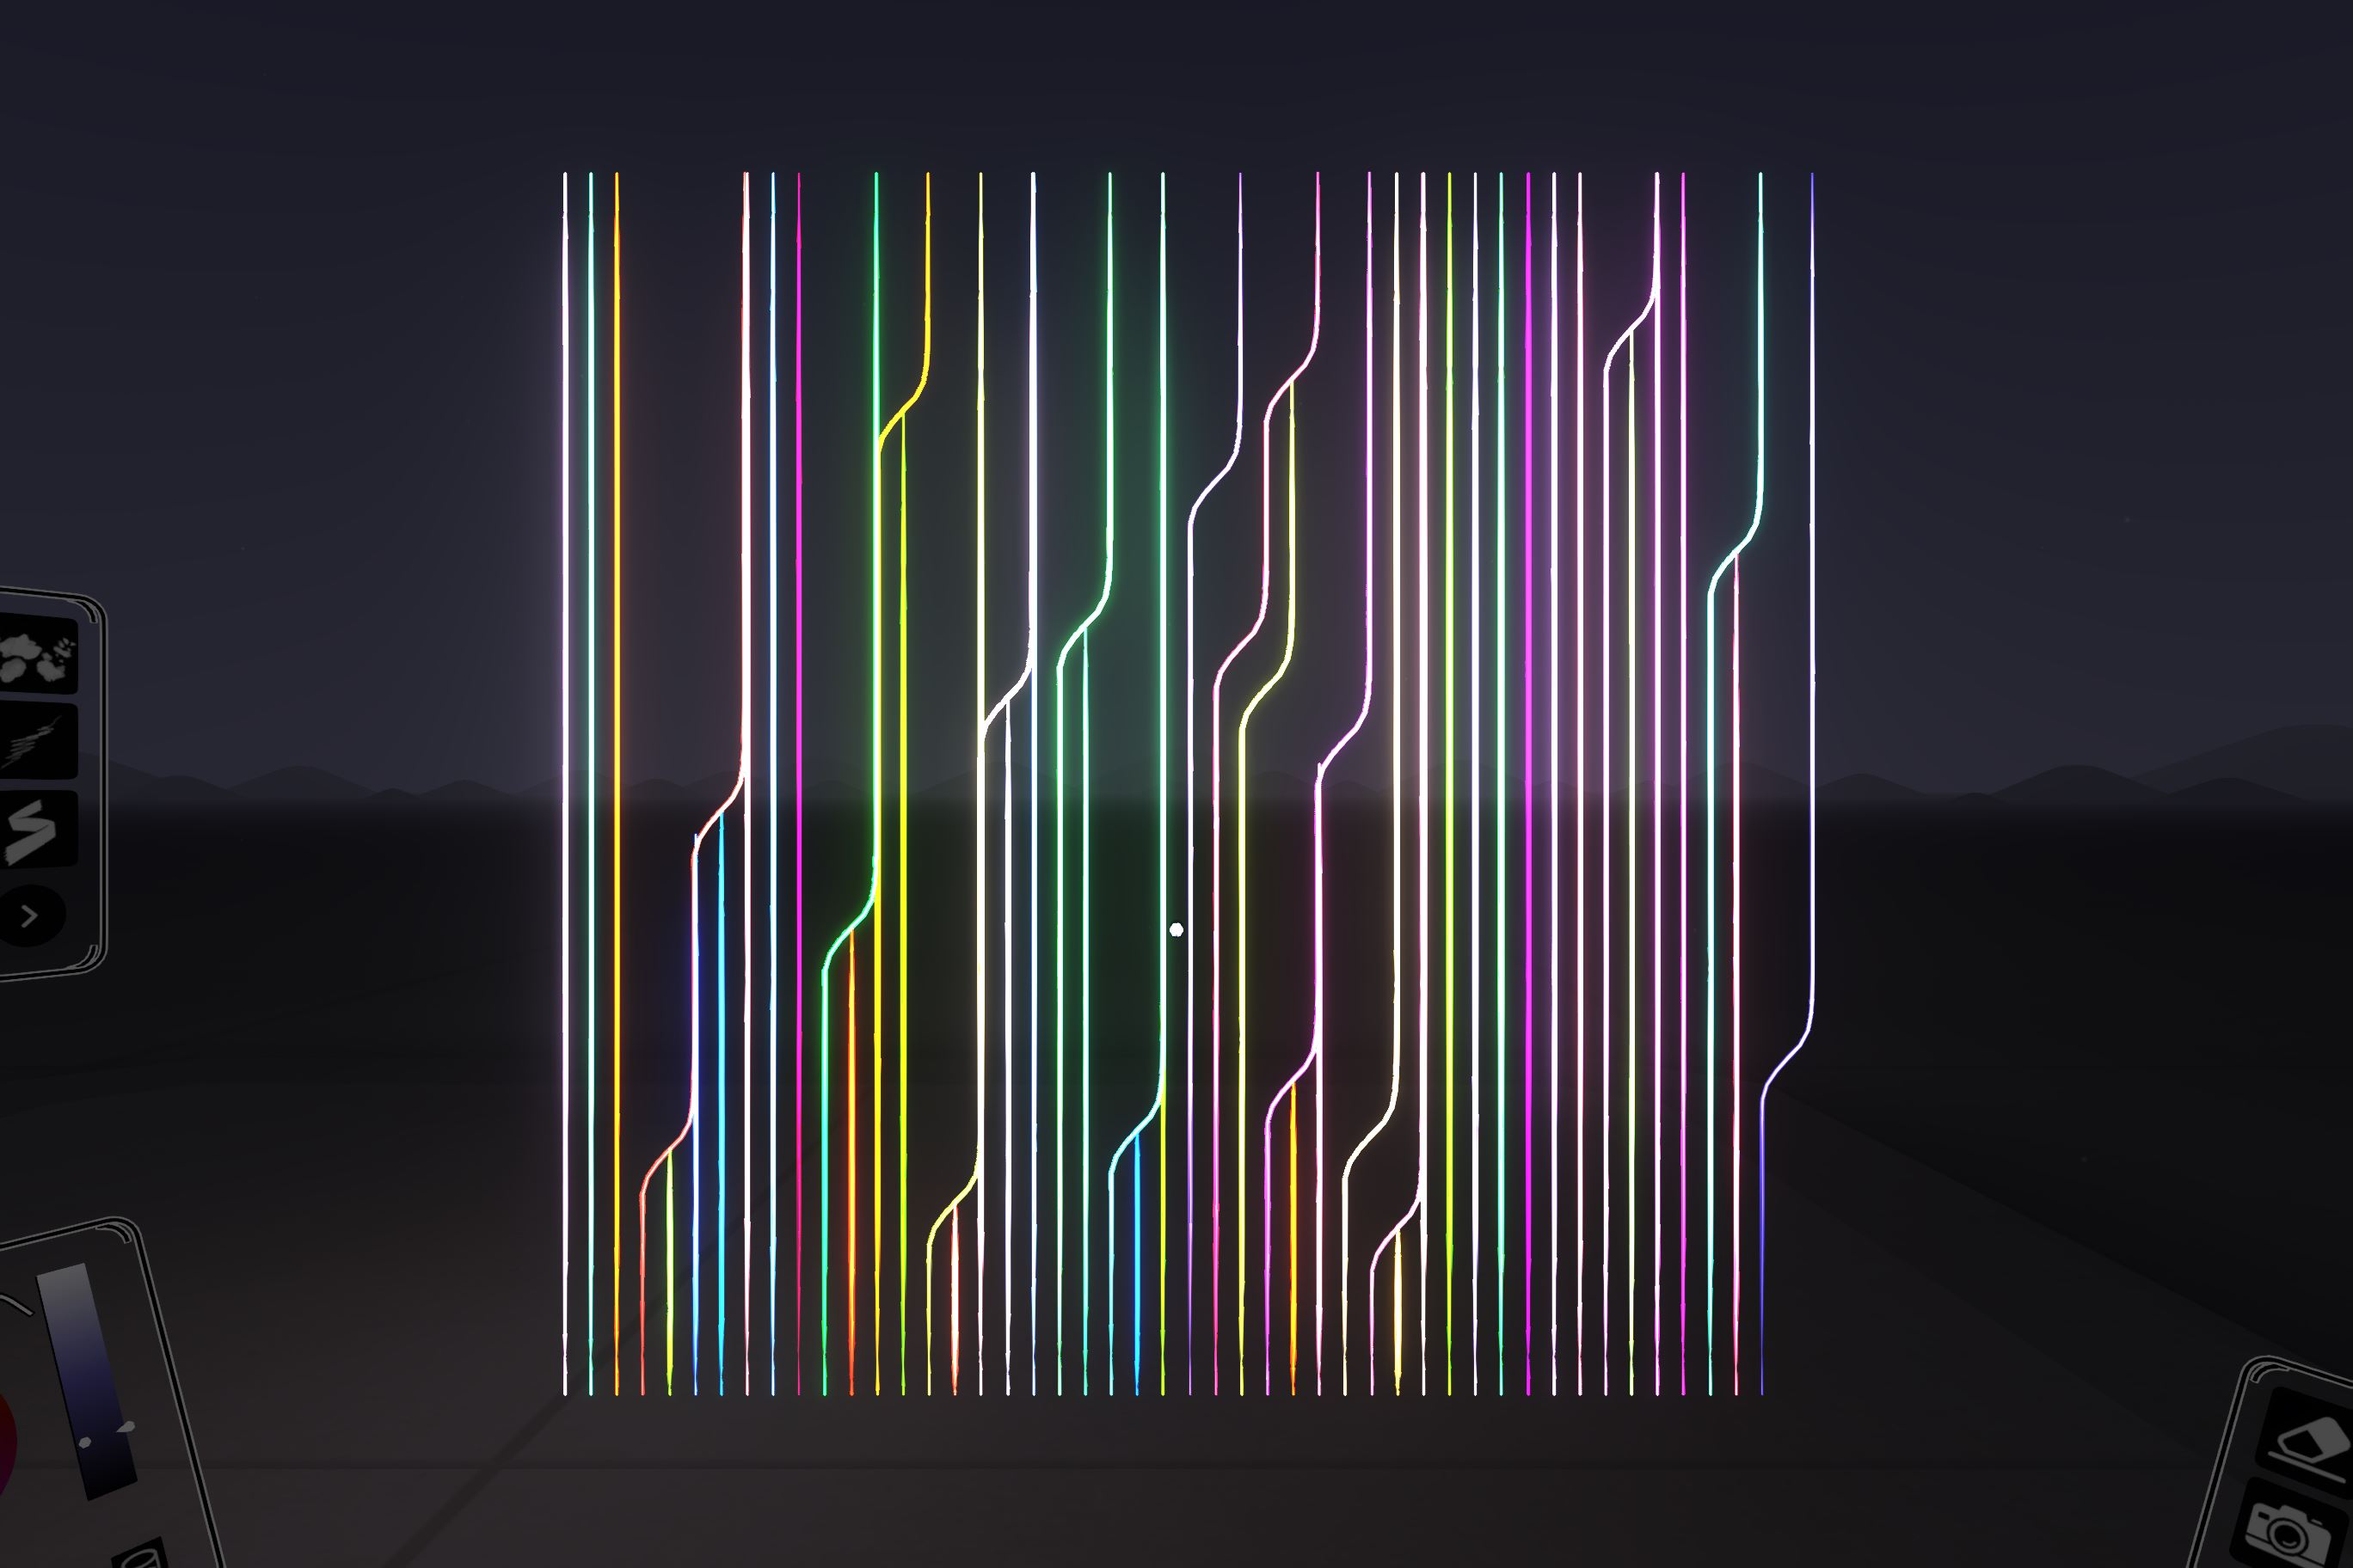
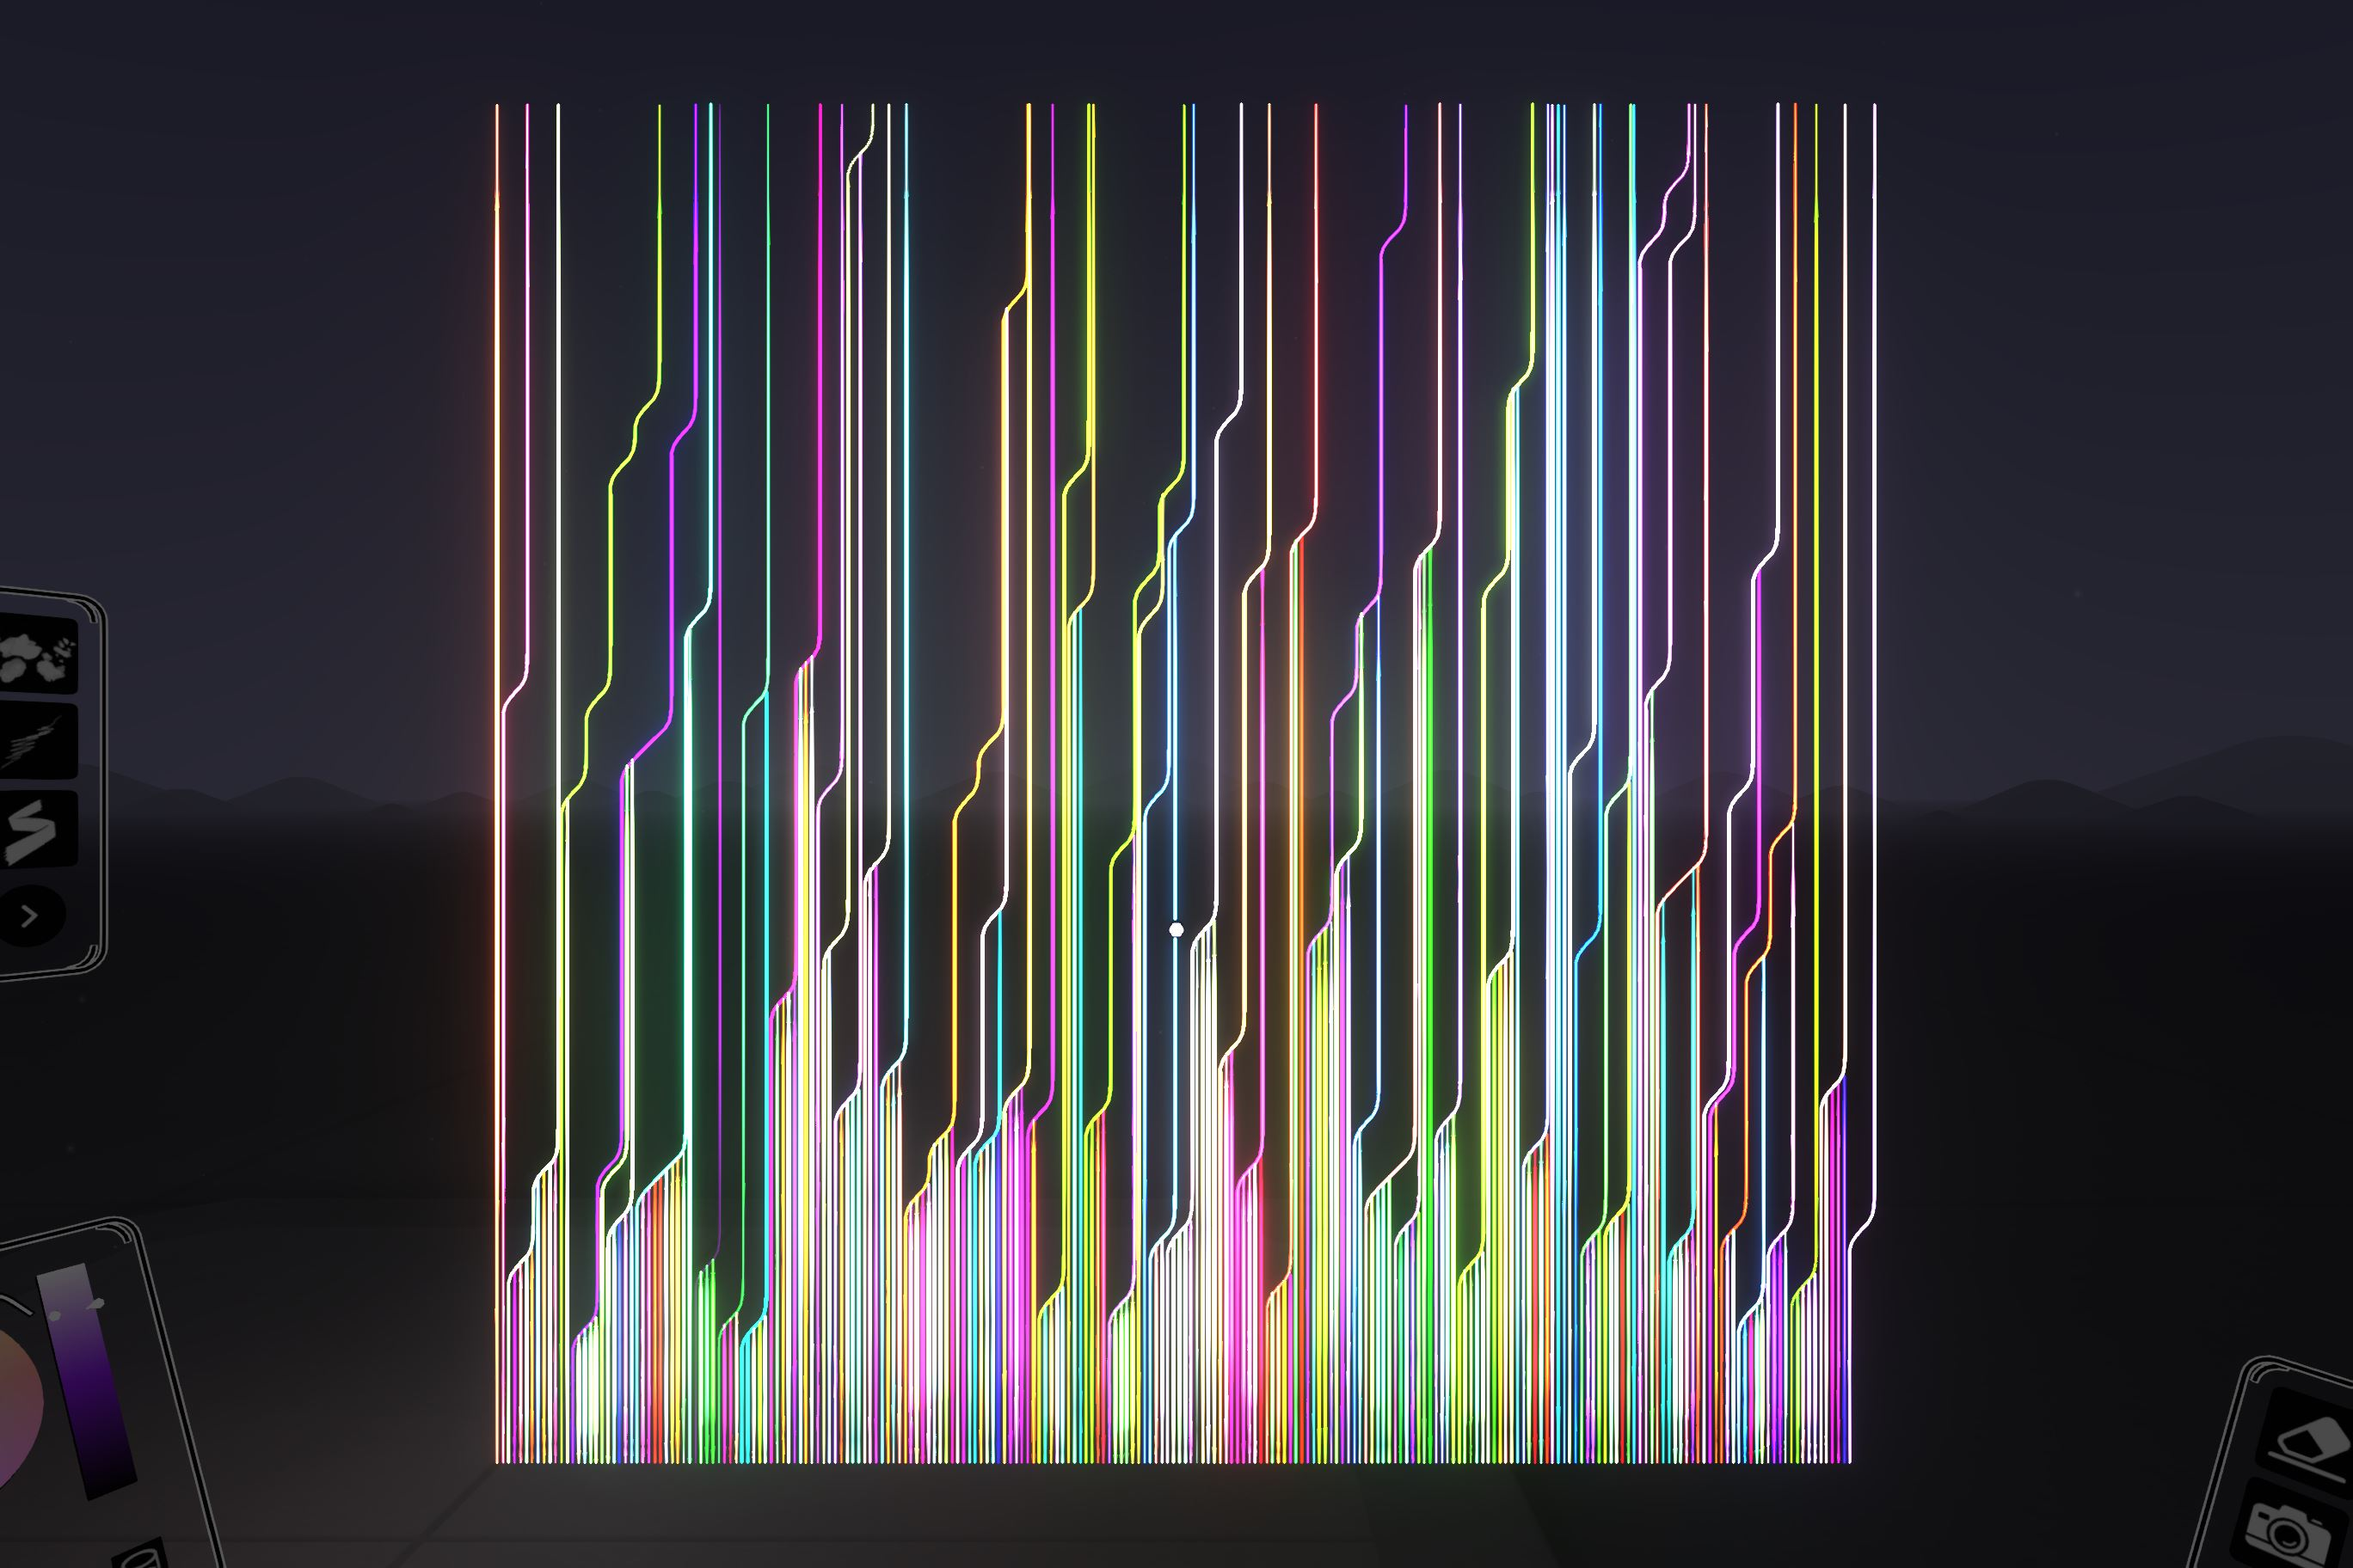
commit

diff --git a/python_scripts/Generative-Art/Vertical_Lines.py b/python_scripts/Generative-Art/Vertical_Lines.py
@@ -97,8 +97,8 @@ def get_direction():
     return dirs
 
 Y_OFFSET = 0
+SCALER = .01
 def getDPC(point, Z=0):
-    SCALER = .01
     return f"{round(point[0]*SCALER,2)},{round((point[1]*SCALER)+Y_OFFSET,2)},{Z}"
 
 def draw_walkers(walkers):
@@ -113,7 +113,7 @@ def draw_walkers(walkers):
 
 def draw():
 
-    MIN_WALKERS = 40
+    MIN_WALKERS = 20
     num_walkers = random.randint(MIN_WALKERS, MIN_WALKERS*2)
     # num_walkers = random.randint(100, 200)
     walkers = []
